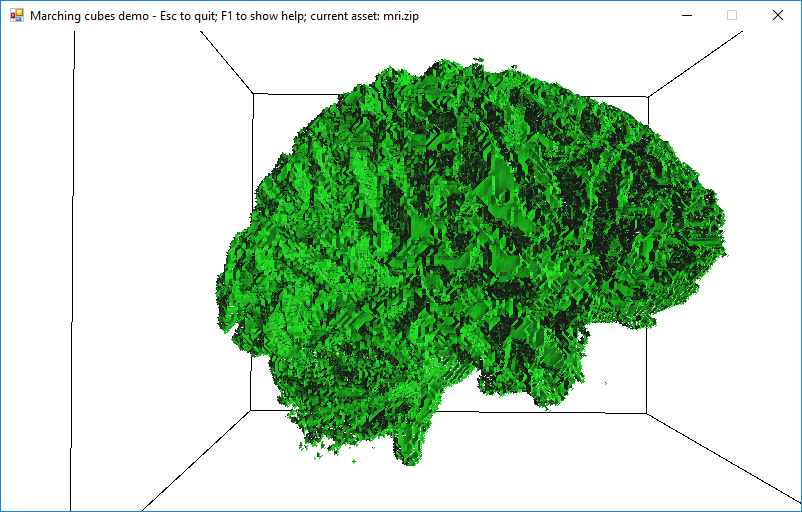
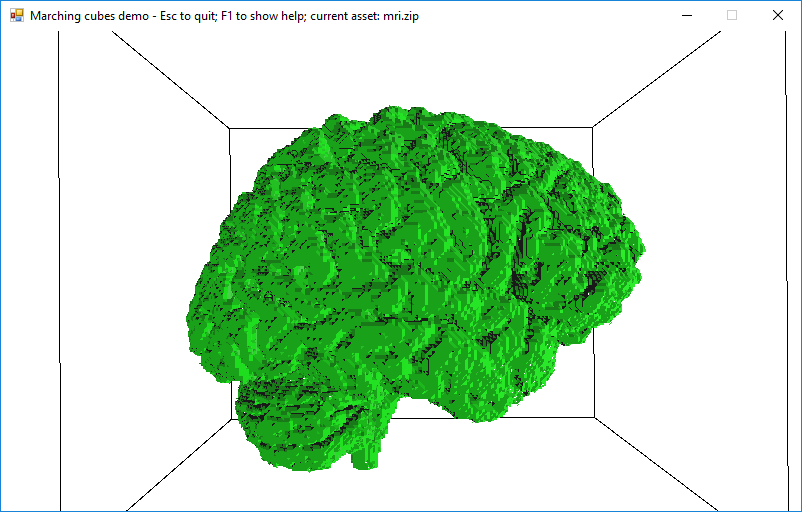
MRI looks better at lower isolevel

diff --git a/Readme.md b/Readme.md
@@ -10,7 +10,7 @@ First compile might fail as it sets up ntfs junction so submodule gets access to
 
 You should not have to install monogame, unless you are missing some common DirectX redistributables.
  
-## Sample result
+## Sample results
  
 ![MRI result](/mri.png?raw=true)
 
